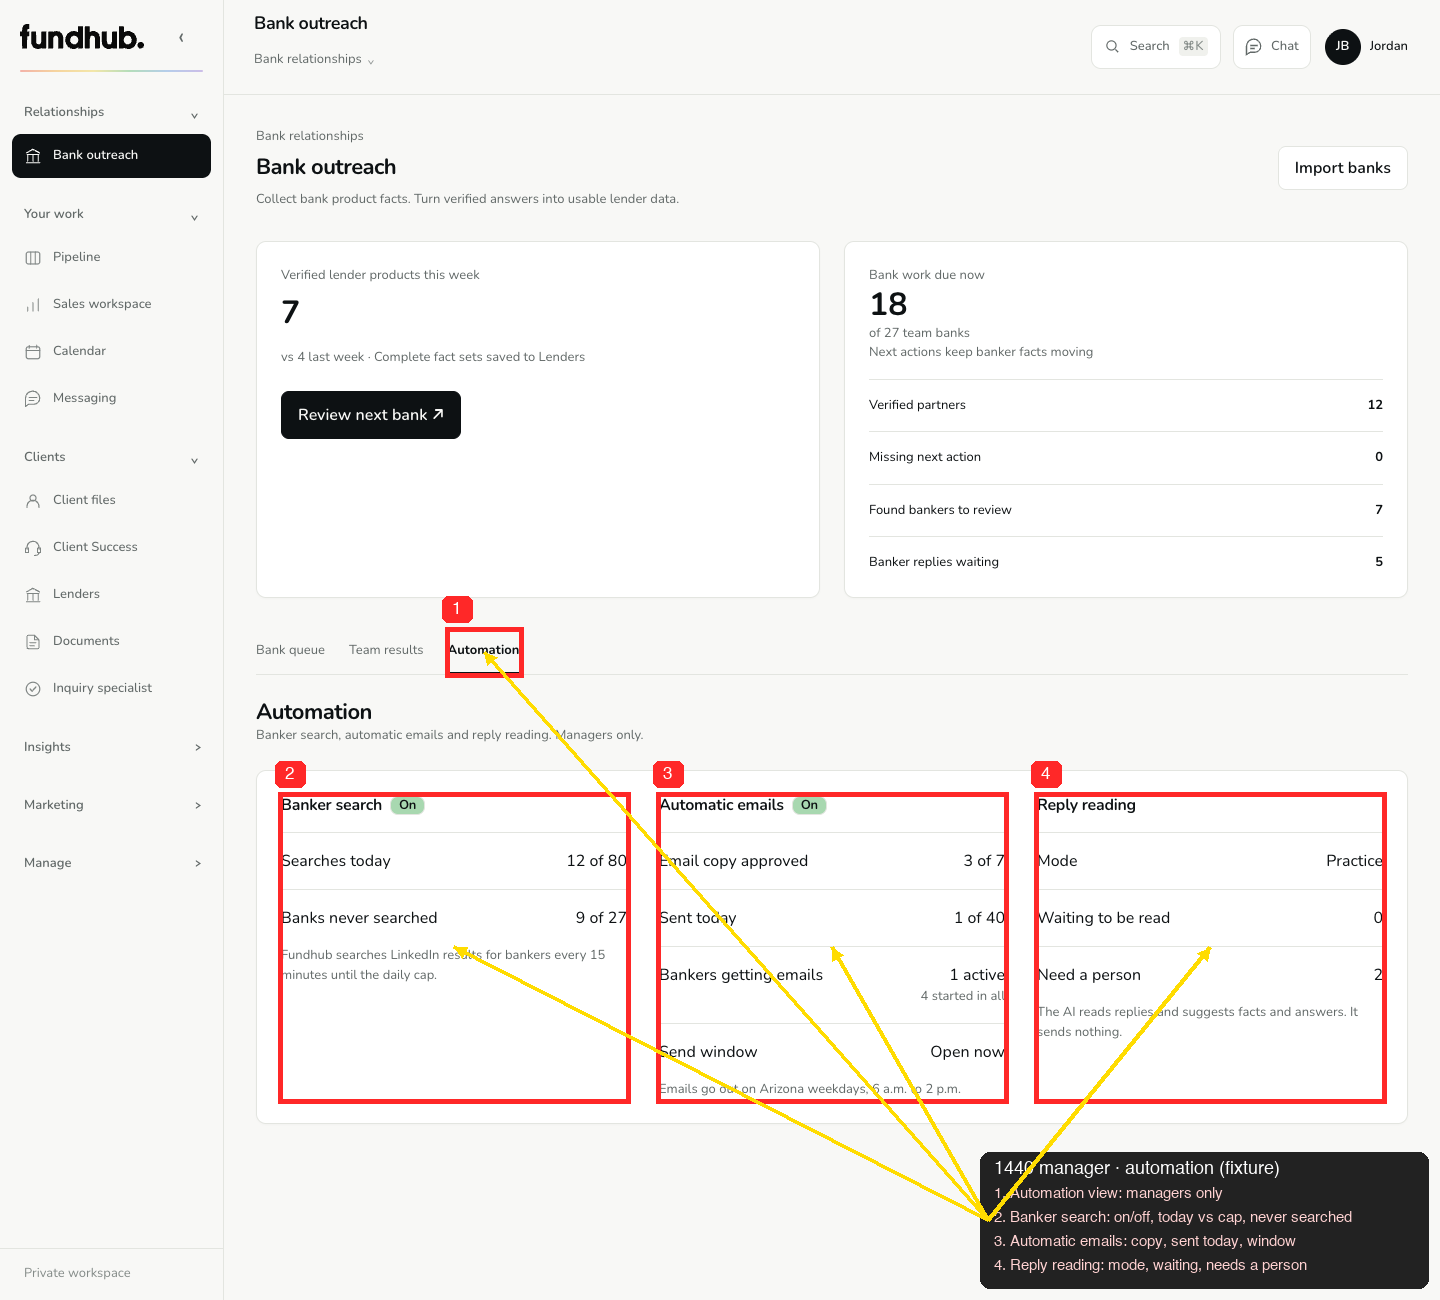
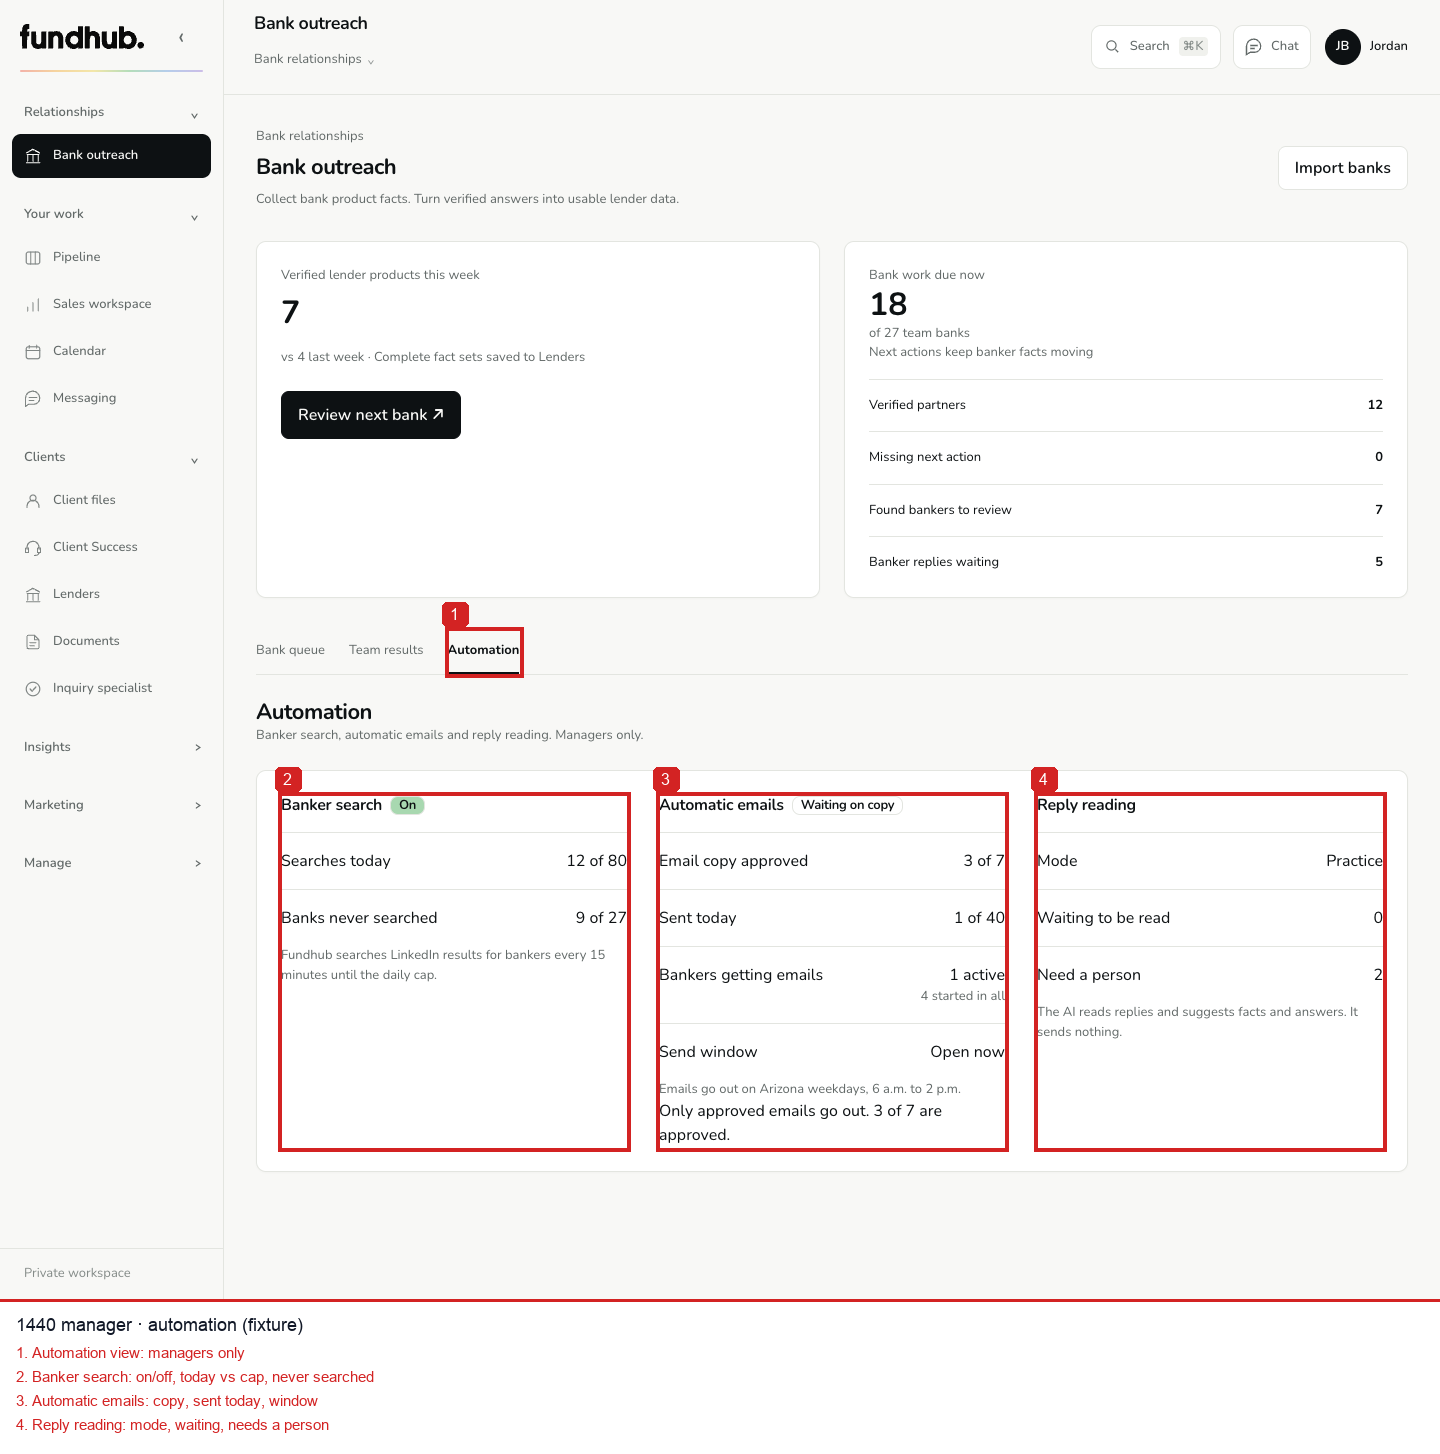
Bank outreach screens: UI audit fixes, 320px proof, marked shots
Owner (relayed 2026-10-20): "claude is fine as long as they are perfect."
fundhub-ui-auditor checklist against docs/rules/UI-STANDARDS.md:

- Automation panel status is true: On only with settings and all 7 emails
  approved; "Waiting on copy" otherwise, with the approved count.
- Stop emails asks first and names the result; Cancel sends nothing.
- Found banker buttons say what happens: Save as banker / Not a match.
- Reviewed found bankers stay short (no repeated snippet).
- "N started in all" stays on one line at 320px.
- New cards now tested at 1440, 390 and 320; 15 marked screenshots with
  the legend under the picture.

Chromium bank spec 63/63, WebKit proof 27/27, layout guards 67/67, lint clean.

diff --git a/public/app/bank-outreach.js b/public/app/bank-outreach.js
@@ -8,7 +8,7 @@
   var list = [], reps = [], canManage = false, offset = 0, total = 0, detail = null, section = 'touch', view = 'queue', requestNumber = 0, detailNumber = 0, initialized = false, searchTimer, returnFocus, returnBankId, importReturnFocus;
   // Automation words. The server owns every status; these maps only name them.
   var EMAIL_STEPS = 3, automationNumber = 0, programStates = null;
-  var leadStatus = { suggested: 'Needs review', accepted: 'Accepted', dismissed: 'Dismissed' };
+  var leadStatus = { suggested: 'Needs review', accepted: 'Saved as banker', dismissed: 'Not a match' };
   var replyStatus = { new: 'New', needs_human: 'Needs you', handled: 'Done' };
   var replyKinds = { interested: 'Interested', data: 'Sent product facts', call: 'Wants a call', not_now: 'Not now', wrong_person: 'Wrong person', opt_out: 'Asked to stop', auto_reply: 'Automatic reply', bounce: 'Bounced', other: 'Other reply' };
   var readModes = { rules: 'Read by rules', shadow: 'Read by AI in practice mode', live: 'Read by AI' };
@@ -87,6 +87,12 @@
   }
   // Managers only. The server refuses reps; reps never see the control.
   function onOff(on) { return '<span class="status-tag' + (on ? ' verified' : '') + '">' + (on ? 'On' : 'Off') + '</span>'; }
+  // Settings alone send nothing: an email goes out only when its copy is approved too.
+  function emailStatus(email) {
+    var approved = Number(email.templates_approved) || 0, total = Number(email.templates_total) || 0;
+    if (!email.configured) return '<span class="status-tag">Off</span>';
+    return total && approved >= total ? '<span class="status-tag verified">On</span>' : '<span class="status-tag">Waiting on copy</span>';
+  }
   function automationRow(label, value) { return '<div><dt>' + esc(label) + '</dt><dd>' + value + '</dd></div>'; }
   function automationHtml(auto) {
     var search = auto.search || {}, email = auto.email || {}, replies = auto.replies || {}, missing = email.missing || [], signup = safeUrl(search.signup_url);
@@ -95,8 +101,8 @@
     return empty + '<div class="team-grid automation-grid">' +
       '<section aria-labelledby="automation-search"><h3 id="automation-search">Banker search ' + onOff(search.configured) + '</h3><dl>' + automationRow('Searches today', count(search.used_today) + ' of ' + count(search.per_day_cap)) + automationRow('Banks never searched', count(search.never_searched) + ' of ' + count(search.accounts)) + '</dl>' +
         (search.configured ? '<p class="caption">Fundhub searches LinkedIn results for bankers every 15 minutes until the daily cap.</p>' : '<p>Search is off. It starts when the search key is saved.</p>' + (signup ? '<div class="bank-links"><a href="' + esc(signup) + '" target="_blank" rel="noopener noreferrer">Get a search key at serper.dev ↗</a></div>' : '')) + '</section>' +
-      '<section aria-labelledby="automation-email"><h3 id="automation-email">Automatic emails ' + onOff(email.configured) + '</h3><dl>' + automationRow('Email copy approved', count(email.templates_approved) + ' of ' + count(email.templates_total)) + automationRow('Sent today', count(email.sent_today) + ' of ' + count(email.per_day_cap)) + automationRow('Bankers getting emails', count(email.active_sequences) + ' active<span class="caption">' + count(email.sequences) + ' started in all</span>') + automationRow('Send window', email.in_send_window ? 'Open now' : 'Closed now') + '</dl><p class="caption">Emails go out on Arizona weekdays, 6 a.m. to 2 p.m.</p>' +
-        (missing.length ? '<p>Email is off until these settings are saved: ' + esc(listWords(missing.map(function (name) { return settingNames[name] || name; }))) + '.</p>' : '') + (Number(email.templates_approved) === 0 ? '<p>No email goes out until the email copy is approved.</p>' : '') + '</section>' +
+      '<section aria-labelledby="automation-email"><h3 id="automation-email">Automatic emails ' + emailStatus(email) + '</h3><dl>' + automationRow('Email copy approved', count(email.templates_approved) + ' of ' + count(email.templates_total)) + automationRow('Sent today', count(email.sent_today) + ' of ' + count(email.per_day_cap)) + automationRow('Bankers getting emails', count(email.active_sequences) + ' active<span class="caption">' + count(email.sequences) + ' started in all</span>') + automationRow('Send window', email.in_send_window ? 'Open now' : 'Closed now') + '</dl><p class="caption">Emails go out on Arizona weekdays, 6 a.m. to 2 p.m.</p>' +
+        (missing.length ? '<p>Email is off until these settings are saved: ' + esc(listWords(missing.map(function (name) { return settingNames[name] || name; }))) + '.</p>' : '') + (Number(email.templates_approved) === 0 ? '<p>No email goes out until the email copy is approved.</p>' : Number(email.templates_approved) < Number(email.templates_total) ? '<p>Only approved emails go out. ' + count(email.templates_approved) + ' of ' + count(email.templates_total) + ' are approved.</p>' : '') + '</section>' +
       '<section aria-labelledby="automation-replies"><h3 id="automation-replies">Reply reading</h3><dl>' + automationRow('Mode', esc(mode[0])) + automationRow('Waiting to be read', count(replies.waiting)) + automationRow('Need a person', count(replies.needs_human)) + '</dl><p class="caption">' + esc(mode[1]) + '</p></section></div>';
   }
   async function loadAutomation() {
@@ -120,12 +126,12 @@
   function leadCard(leads) {
     if (!leads.length) return '';
     var waiting = leads.filter(function (l) { return l.status === 'suggested'; }).length;
-    return '<section class="found-bankers" aria-labelledby="found-bankers-title"><h3 id="found-bankers-title">Found bankers</h3><p class="caption section-note">' + (waiting ? plural(waiting, 'banker', 'bankers') + ' from a LinkedIn search ' + (waiting === 1 ? 'needs' : 'need') + ' review. Accept saves the person as a banker. Connecting on LinkedIn stays your click.' : 'Every found banker is reviewed.') + '</p><div id="lead-list">' + leads.map(function (l) {
+    return '<section class="found-bankers" aria-labelledby="found-bankers-title"><h3 id="found-bankers-title">Found bankers</h3><p class="caption section-note">' + (waiting ? plural(waiting, 'banker', 'bankers') + ' from a LinkedIn search ' + (waiting === 1 ? 'needs' : 'need') + ' review. Save as banker adds the person to your bankers. Connecting on LinkedIn stays your click.' : 'Every found banker is reviewed.') + '</p><div id="lead-list">' + leads.map(function (l) {
       var link = safeUrl(l.linkedin_url), open = l.status === 'suggested';
       return '<article class="saved-record" data-lead="' + esc(l.id) + '"><div class="record-heading"><div><strong>' + esc(l.name) + '</strong><p class="caption">' + esc([l.title || 'Title not found', l.employer].filter(Boolean).join(' · ')) + '</p></div><span class="status-tag' + (l.status === 'accepted' ? ' verified' : '') + '">' + esc(leadStatus[l.status] || l.status) + '</span></div>' +
-        '<p class="caption">' + esc(l.confidence === 'high' ? 'High confidence match' : 'Medium confidence match') + ' · Found ' + date(l.created_at) + '</p>' + (l.snippet ? '<p>' + esc(l.snippet) + '</p>' : '') +
+        '<p class="caption">' + esc(l.confidence === 'high' ? 'High confidence match' : 'Medium confidence match') + ' · Found ' + date(l.created_at) + '</p>' + (open && l.snippet ? '<p>' + esc(l.snippet) + '</p>' : '') +
         (link ? '<div class="bank-links banker-contact-links"><a href="' + esc(link) + '" target="_blank" rel="noopener noreferrer" aria-label="Open ' + esc(l.name) + ' on LinkedIn">Open on LinkedIn ↗</a></div>' : '') +
-        (open ? '<div class="record-actions"><button class="button" type="button" data-accept-lead="' + esc(l.id) + '" aria-label="Accept ' + esc(l.name) + '">Accept</button><button class="button" type="button" data-dismiss-lead="' + esc(l.id) + '" aria-label="Dismiss ' + esc(l.name) + '">Dismiss</button></div>' : '') + '</article>';
+        (open ? '<div class="record-actions"><button class="button" type="button" data-accept-lead="' + esc(l.id) + '" aria-label="Save ' + esc(l.name) + ' as a banker">Save as banker</button><button class="button" type="button" data-dismiss-lead="' + esc(l.id) + '" aria-label="' + esc(l.name) + ' is not a match">Not a match</button></div>' : '') + '</article>';
     }).join('') + '</div></section>';
   }
   function emailState(c) {
@@ -198,12 +204,17 @@
   }
   var quickActions = [
     ['acceptLead', 'accept_lead', 'lead_id', 'lead', 'Banker saved. Connect with them on LinkedIn next.'],
-    ['dismissLead', 'dismiss_lead', 'lead_id', 'lead', 'Found banker dismissed.'],
+    ['dismissLead', 'dismiss_lead', 'lead_id', 'lead', 'Marked not a match.'],
     ['stopEmails', 'stop_emails', 'contact_id', 'contact', 'Automatic emails stopped for this banker.'],
     ['dismissReply', 'dismiss_reply_suggestion', 'reply_id', 'reply', 'Suggested facts set aside.'],
     ['replyDone', 'mark_reply_handled', 'reply_id', 'reply', 'Reply marked done.']
   ];
-  function quickAction(button) { quickActions.forEach(function (q) { var id = button.dataset[q[0]]; if (!id) return; var body = { action: q[1], account_id: detail.account.id }; body[q[2]] = id; act(button, body, q[4], '[data-' + q[3] + '="' + CSS.escape(id) + '"]'); }); }
+  // Stopping emails cannot be undone, so it asks first and names the result.
+  function confirmStop(id) {
+    var c = (detail.contacts || []).find(function (x) { return x.id === id; }), name = c ? c.name : 'this banker';
+    return window.confirm('Stop automatic emails to ' + name + '? The emails not sent yet will never go out. This cannot be undone.');
+  }
+  function quickAction(button) { quickActions.forEach(function (q) { var id = button.dataset[q[0]]; if (!id) return; if (q[0] === 'stopEmails' && !confirmStop(id)) return; var body = { action: q[1], account_id: detail.account.id }; body[q[2]] = id; act(button, body, q[4], '[data-' + q[3] + '="' + CSS.escape(id) + '"]'); }); }
   function openImport() { if (this && typeof this.focus === 'function') this.focus(); importReturnFocus = document.activeElement; message('import-message', ''); $('import-dialog').showModal(); $('import-form select').focus(); }
   $('status').innerHTML = options(labels, '', 'All statuses');
   $('queue-filters').onsubmit = function (event) { event.preventDefault(); clearTimeout(searchTimer); offset = 0; loadQueue(); };

diff --git a/public/app/bank-outreach.css b/public/app/bank-outreach.css
@@ -79,4 +79,5 @@
 .bank-outreach-page .automation-empty .button{margin-top:16px}
 .bank-outreach-page .automation-grid{grid-template-columns:repeat(3,minmax(0,1fr))}
 .bank-outreach-page .automation-grid h3{display:flex;flex-wrap:wrap;align-items:center;gap:8px}
+.bank-outreach-page .automation-grid dd span{white-space:nowrap}
 @media(max-width:1100px){.bank-outreach-page .automation-grid{grid-template-columns:minmax(0,1fr);gap:24px}}

diff --git a/ops/workflows/bank-outreach-auto-2026-10-20.md b/ops/workflows/bank-outreach-auto-2026-10-20.md
@@ -117,3 +117,21 @@ No new route, page or dependency. Journey gap: `bank-outreach-intended.md` still
 - Not approved: the 7 bank templates. Chris's own rule (2026-08-01, `api/message-templates.mjs`): approval needs the exact words read by an owner or admin. No bank email can send until then.
 - After deploy: switch agent `BANK-OUTREACH-REPLY` to `live` (features stay on; it can only send approved copy).
 - CI notes on #96, not caused by this branch, each passed here or on other runs: `creative assets cannot be hard-deleted` (run 39523796193), `Send this one to` browser timeout (passes locally 2/2), `pipeline-new-archive` refusal (1 of 1,743), and the `template-restore` collation failure on every PR since #112 (fix rides #108/#107, per coordinator).
+
+## UI audit of the bank outreach screens (PR #111) — fundhub-ui-auditor checklist vs docs/rules/UI-STANDARDS.md
+
+Owner, relayed 2026-10-20: "claude is fine as long as they are perfect. do it for me now." Audited at 1440, 390 and 320 with fictional fixtures, as manager and as rep. Evidence: `ops/workflows/build-evidence/bank-outreach-auto/*-MARKED.png` (15 shots, red numbered boxes, legend under each picture).
+
+| Screen | Role | Standard | Expected | Observed | Evidence | Severity | Result |
+|---|---|---|---|---|---|---|---|
+| Automation panel | Manager | §6.3 true status | "On" only when email can actually go out | "Automatic emails On" when settings were saved but only 3 of 7 emails approved | `1440-manager-automation-MARKED.png` | HIGH | Fixed: On / Waiting on copy / Off, plus "Only approved emails go out. X of 7 are approved." New test for 7 of 7 = On |
+| Banker emails | Rep | §5 destructive confirm | Confirm naming the result | "Stop emails" stopped the cadence on one click; it cannot be restarted | `*-rep-automatic-emails-MARKED.png` | HIGH | Fixed: confirm "Stop automatic emails to <name>? The emails not sent yet will never go out. This cannot be undone." Cancel sends nothing (tested) |
+| Found bankers | Rep | §5 buttons say what happens | Verb naming the result | "Accept" / "Dismiss" | `*-rep-found-bankers-MARKED.png` | MEDIUM | Fixed: "Save as banker" / "Not a match"; statuses "Saved as banker" / "Not a match" |
+| All new cards | Both | §11 widths | 1440, 390 and 320 | New cards tested at 1440 and 390 only | — | MEDIUM | Fixed: 320 added (5 more tests); no sideways scroll, 16px body, 13px captions, 44px targets measured at all three |
+| Found bankers | Rep | §9 progressive disclosure | Reviewed rows stay short | Reviewed rows repeated the full search snippet | `*-rep-found-bankers-MARKED.png` | LOW | Fixed: snippet only on rows still needing review (tested) |
+| Automation panel | Manager | §11 phone fit | Caption on one line | "4 started in / all" broke at 320 | `320-manager-automation-MARKED.png` | LOW | Fixed |
+| Evidence | — | CLAUDE.md §8 | Marks never hide the content | Yellow arrows and legend drawn over the screen | old shots | LOW | Fixed: numbered boxes, legend in a band under the picture, no arrows |
+
+Checked and passing with no change: §1 no new primary button (the only primary in the diff is the existing Import banks); §2 8/16/24/32 spacing and the 3-column automation grid (equal spans, one column under 1100px); §3 type floors measured and tabular numbers on panel values; §4 Automation tab renders for managers only, reps never see or read it (tested); §6 Automation panel loading / empty (with Import banks) / failed read with retry / full, and empty text for replies; §7 relative time under 24h, absolute after, every panel count beside its cap or total; §8 filters above the queue; §10 rep's first question ("Who do I work next?") still leads; state filter lists every program state (56 live), tested. Open question: none.
+
+Proof on the final screen code: bank outreach Chromium spec 63/63 (41 existing unchanged + 22 new), WebKit proof 27/27, screen-standard / status tokens / rounded font / nav reachability / fluid shell 67/67, lint clean.
